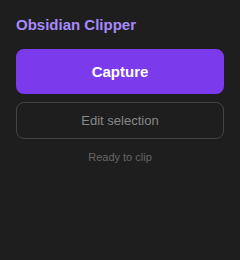
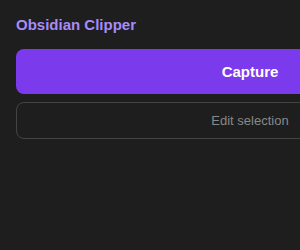
Update popup screenshot and add edit selection screenshot

diff --git a/README.md b/README.md
@@ -4,6 +4,8 @@ A Chrome extension for capturing and highlighting web content, formatted for Obs
 
 ![Popup](screenshots/01-popup.png)
 
+![Edit Selection](screenshots/02-edit-selection.png)
+
 ## Features
 
 - **Remove Mode**: Start with all content selected, click to exclude elements
